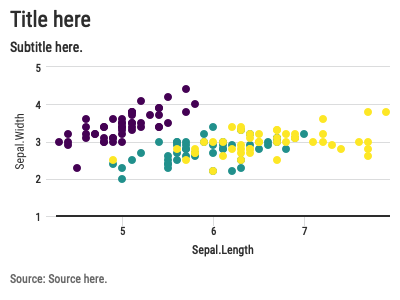
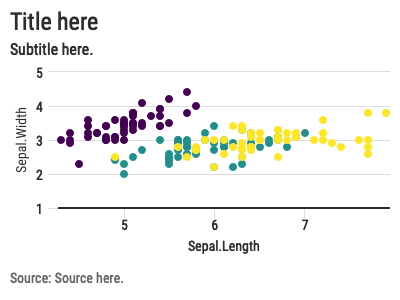
update ja_hc_theme base_size to apply to axis text

diff --git a/README.md b/README.md
@@ -30,34 +30,36 @@ ja_font()
 #> [1] "Roboto Condensed"
 ```
 
-## Use ggplot theme\_ja()
+## Use ggplot theme_ja()
 
 ``` r
 library(tidyverse)
-#> ── Attaching packages ─────────────────────────────────────── tidyverse 1.3.0 ──
-#> ✓ ggplot2 3.3.3     ✓ purrr   0.3.4
-#> ✓ tibble  3.1.2     ✓ dplyr   1.0.6
-#> ✓ tidyr   1.1.3     ✓ stringr 1.4.0
-#> ✓ readr   1.4.0     ✓ forcats 0.5.1
+#> ── Attaching packages ─────────────────────────────────────── tidyverse 1.3.1 ──
+#> ✔ ggplot2 3.3.5     ✔ purrr   0.3.4
+#> ✔ tibble  3.1.8     ✔ dplyr   1.0.7
+#> ✔ tidyr   1.1.4     ✔ stringr 1.4.0
+#> ✔ readr   2.1.1     ✔ forcats 0.5.1
 #> ── Conflicts ────────────────────────────────────────── tidyverse_conflicts() ──
-#> x dplyr::filter() masks stats::filter()
-#> x dplyr::lag()    masks stats::lag()
+#> ✖ dplyr::filter() masks stats::filter()
+#> ✖ dplyr::lag()    masks stats::lag()
 ggplot(iris) +
   geom_point(aes(x=Sepal.Length, y=Sepal.Width, color=Species), size=3) +
   ggtitle("Title here", subtitle = "Subtitle here") +
   labs(caption = "Source: Add source here.") +
-  theme_ja()
+  theme_ja() 
 ```
 
 <img src="man/figures/README-cars-1.png" width="100%" />
 
-## Use highcharter ja\_hc\_theme()
+## Use highcharter ja_hc_theme()
 
 ``` r
 library(highcharter)
 #> Registered S3 method overwritten by 'quantmod':
 #>   method            from
 #>   as.zoo.data.frame zoo
+#> Highcharts (www.highcharts.com) is a Highsoft software product which is
+#> not free for commercial and Governmental use
 highcharter::hchart(iris, "scatter", hcaes(Sepal.Length, Sepal.Width, color=Species)) %>% 
   hc_title(text = "Title here") %>% 
   hc_subtitle(text = "Subtitle here.") %>% 
@@ -67,11 +69,12 @@ highcharter::hchart(iris, "scatter", hcaes(Sepal.Length, Sepal.Width, color=Spec
 
 <img src="man/figures/README-unnamed-chunk-2-1.png" width="100%" />
 
-## Custom ja\_colors
+## Custom ja_colors
 
 ### View colors
 
 ``` r
+
 ja_view_colors()
 ```
 
